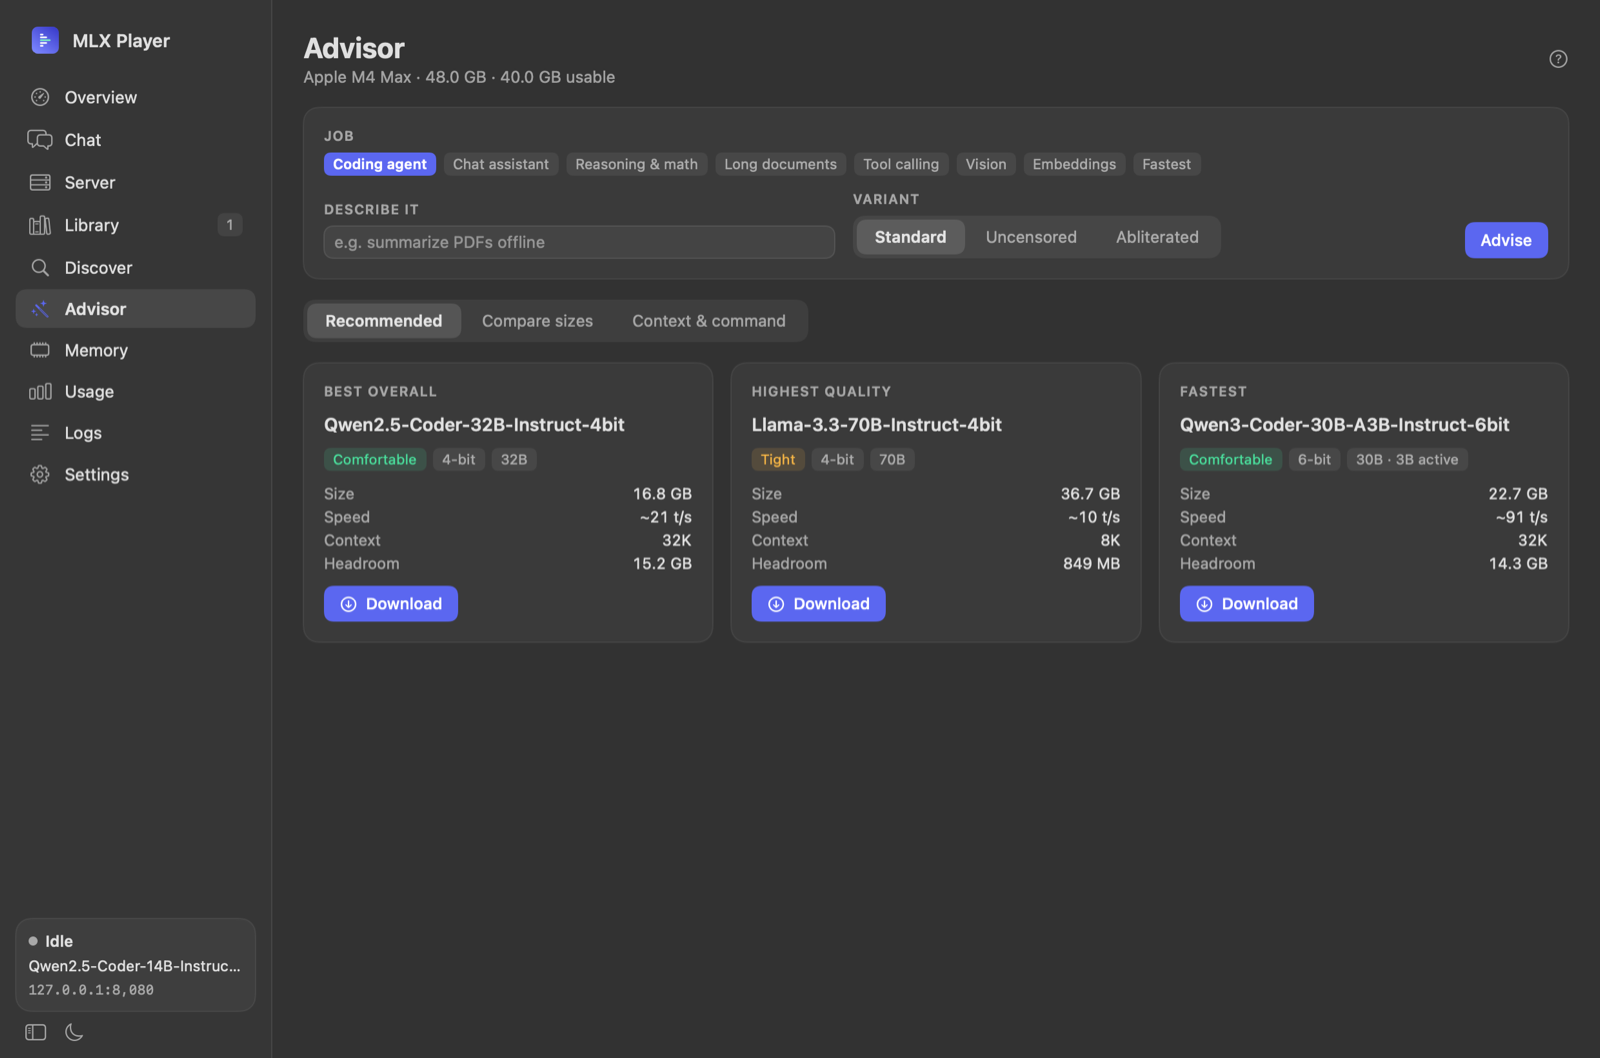
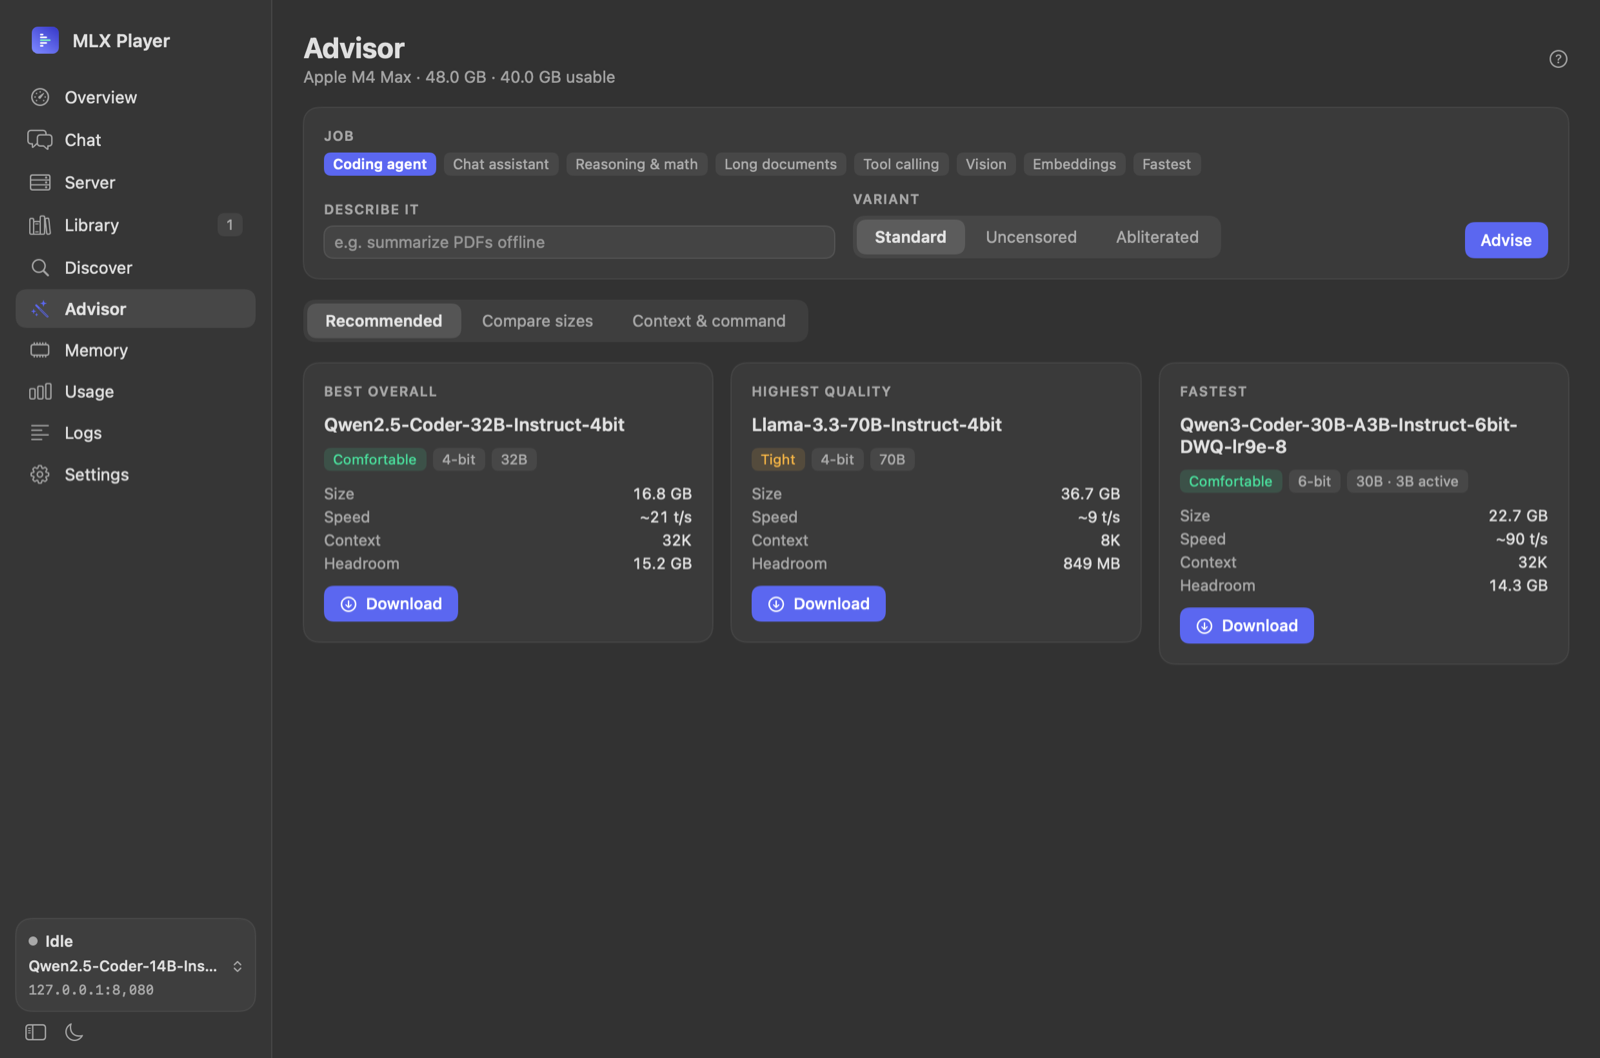
Add GitHub Pages site (docs/), refresh screenshots with new dropdowns, trim README screenshots to the overview

Changed region(s): [[0.7188, 0.4055, 0.9062, 0.6238], [0.9375, 0.4367, 0.9688, 0.5614], [0.0312, 0.9045, 0.1562, 0.9357]]

diff --git a/docs/index.html b/docs/index.html
@@ -1,0 +1,268 @@
+<!doctype html>
+<html lang="en">
+<head>
+<meta charset="utf-8">
+<meta name="viewport" content="width=device-width, initial-scale=1">
+<title>MLX Player</title>
+<meta name="description" content="A tiny native macOS menu bar app that installs mlx-lm, finds models that fit your Mac and serves them on a local OpenAI-compatible endpoint.">
+<meta property="og:title" content="MLX Player">
+<meta property="og:description" content="Run local MLX models on your Mac from the menu bar. 3.4 MB, native, agent-ready.">
+<meta property="og:image" content="https://kalahroudi.github.io/mlxplayer/images/overview-dark.png">
+<link rel="icon" href="images/logo.png">
+<style>
+  :root {
+    --bg: #0b0c10; --bg2: #11131a; --card: #14161f; --line: rgba(255,255,255,.08);
+    --text: #eceef5; --muted: #9aa0b4; --accent: #5b63f5; --accent2: #7c83ff; --mint: #44e0a1; --amber: #f5b342;
+    --radius: 16px;
+  }
+  @media (prefers-color-scheme: light) {
+    :root { --bg: #f6f7fb; --bg2: #ffffff; --card: #ffffff; --line: rgba(10,12,30,.1); --text: #14162a; --muted: #5d637a; --accent: #4a52e8; --accent2: #5b63f5; }
+  }
+  * { box-sizing: border-box; }
+  html { scroll-behavior: smooth; }
+  body { margin: 0; background: var(--bg); color: var(--text); font: 16px/1.6 -apple-system, BlinkMacSystemFont, "SF Pro Text", "Inter", system-ui, sans-serif; -webkit-font-smoothing: antialiased; }
+  a { color: var(--accent2); text-decoration: none; } a:hover { text-decoration: underline; }
+  .wrap { max-width: 1080px; margin: 0 auto; padding: 0 20px; }
+  nav { position: sticky; top: 0; z-index: 10; backdrop-filter: blur(14px); background: color-mix(in srgb, var(--bg) 78%, transparent); border-bottom: 1px solid var(--line); }
+  nav .wrap { display: flex; align-items: center; gap: 22px; height: 58px; }
+  nav .brand { display: flex; align-items: center; gap: 10px; font-weight: 700; color: var(--text); }
+  nav .brand img { width: 26px; height: 26px; }
+  nav .links { margin-left: auto; display: flex; gap: 22px; font-size: 14px; }
+  nav .links a { color: var(--muted); } nav .links a:hover { color: var(--text); text-decoration: none; }
+  @media (max-width: 720px) { nav .links a:not(.gh) { display: none; } }
+  .hero { text-align: center; padding: 84px 0 40px; position: relative; overflow: hidden; }
+  .hero::before { content: ""; position: absolute; inset: -200px 0 auto 0; height: 600px; background: radial-gradient(ellipse at 50% 0%, rgba(91,99,245,.35), transparent 62%); pointer-events: none; }
+  .hero img.logo { width: 92px; height: 92px; filter: drop-shadow(0 14px 30px rgba(91,99,245,.45)); }
+  h1 { font-size: clamp(38px, 6vw, 66px); line-height: 1.05; letter-spacing: -.03em; margin: 22px 0 16px; }
+  h1 em { font-style: normal; background: linear-gradient(90deg, var(--accent2), var(--mint)); -webkit-background-clip: text; background-clip: text; color: transparent; }
+  .lead { max-width: 640px; margin: 0 auto; color: var(--muted); font-size: 19px; }
+  .cta { display: flex; gap: 12px; justify-content: center; flex-wrap: wrap; margin: 30px 0 8px; }
+  .btn { display: inline-flex; align-items: center; gap: 8px; padding: 12px 22px; border-radius: 12px; font-weight: 600; border: 1px solid var(--line); color: var(--text); background: var(--card); cursor: pointer; font-size: 15px; font-family: inherit; }
+  .btn:hover { text-decoration: none; border-color: rgba(124,131,255,.5); }
+  .btn.primary { background: linear-gradient(180deg, var(--accent2), var(--accent)); border-color: transparent; color: #fff; box-shadow: 0 10px 30px rgba(91,99,245,.4); }
+  .fine { color: var(--muted); font-size: 13px; }
+  .shot { margin: 46px auto 0; max-width: 980px; border-radius: 18px; border: 1px solid var(--line); box-shadow: 0 40px 90px rgba(0,0,0,.45), 0 0 0 1px rgba(255,255,255,.03); overflow: hidden; background: var(--bg2); }
+  .shot img { display: block; width: 100%; height: auto; }
+  .stats { display: grid; grid-template-columns: repeat(4, 1fr); gap: 14px; margin: 56px 0 0; }
+  .stat { background: var(--card); border: 1px solid var(--line); border-radius: var(--radius); padding: 20px; text-align: center; }
+  .stat b { display: block; font-size: 30px; letter-spacing: -.02em; }
+  .stat span { color: var(--muted); font-size: 13.5px; }
+  @media (max-width: 720px) { .stats { grid-template-columns: repeat(2, 1fr); } }
+  section { padding: 84px 0 0; }
+  .eyebrow { color: var(--accent2); font-weight: 700; font-size: 13px; letter-spacing: .12em; text-transform: uppercase; }
+  h2 { font-size: clamp(28px, 4vw, 40px); letter-spacing: -.02em; line-height: 1.12; margin: 8px 0 14px; }
+  .sub { color: var(--muted); max-width: 680px; font-size: 17px; margin: 0 0 30px; }
+  .grid { display: grid; grid-template-columns: repeat(3, 1fr); gap: 14px; }
+  @media (max-width: 860px) { .grid { grid-template-columns: 1fr; } }
+  .card { background: var(--card); border: 1px solid var(--line); border-radius: var(--radius); padding: 22px; }
+  .card h3 { margin: 0 0 6px; font-size: 17px; }
+  .card p { margin: 0; color: var(--muted); font-size: 15px; }
+  .ico { width: 38px; height: 38px; border-radius: 10px; display: grid; place-items: center; background: rgba(91,99,245,.16); color: var(--accent2); font-size: 19px; margin-bottom: 14px; }
+  .why { display: grid; grid-template-columns: 1fr 1fr; gap: 14px; }
+  @media (max-width: 860px) { .why { grid-template-columns: 1fr; } }
+  .why .card { display: flex; gap: 14px; }
+  .why .n { font-weight: 800; color: var(--accent2); font-size: 20px; min-width: 26px; }
+  .tabs { display: flex; gap: 6px; flex-wrap: wrap; margin-bottom: 16px; }
+  .tab { padding: 8px 16px; border-radius: 999px; border: 1px solid var(--line); background: transparent; color: var(--muted); cursor: pointer; font: inherit; font-size: 14px; font-weight: 600; }
+  .tab[aria-selected="true"] { background: var(--accent); border-color: transparent; color: #fff; }
+  .gallery { display: grid; grid-template-columns: 1fr; gap: 16px; }
+  .pane { display: none; } .pane.on { display: block; }
+  .pane .shot { margin: 0 auto; }
+  .pane p { text-align: center; color: var(--muted); max-width: 640px; margin: 16px auto 0; }
+  .pop { display: flex; gap: 18px; justify-content: center; flex-wrap: wrap; }
+  .pop img { width: 270px; max-width: 100%; border-radius: 14px; border: 1px solid var(--line); box-shadow: 0 30px 70px rgba(0,0,0,.4); }
+  .steps { counter-reset: s; display: grid; gap: 14px; }
+  .step { display: grid; grid-template-columns: 40px 1fr; gap: 16px; background: var(--card); border: 1px solid var(--line); border-radius: var(--radius); padding: 20px; }
+  .step::before { counter-increment: s; content: counter(s); width: 34px; height: 34px; border-radius: 50%; background: linear-gradient(180deg, var(--accent2), var(--accent)); color: #fff; font-weight: 700; display: grid; place-items: center; }
+  .step h3 { margin: 2px 0 4px; font-size: 17px; } .step p { margin: 0; color: var(--muted); }
+  pre, code { font-family: ui-monospace, "SF Mono", Menlo, monospace; }
+  pre { background: #0a0b10; color: #e6e8f2; border: 1px solid var(--line); border-radius: 12px; padding: 16px; overflow: auto; font-size: 13.5px; line-height: 1.55; margin: 12px 0 0; position: relative; white-space: pre-wrap; }
+  :not(pre) > code { background: rgba(124,131,255,.14); padding: 2px 6px; border-radius: 6px; font-size: .9em; }
+  .copy { position: absolute; top: 10px; right: 10px; padding: 5px 11px; font-size: 12px; border-radius: 8px; border: 1px solid var(--line); background: #1a1d29; color: #c9cde0; cursor: pointer; font-family: inherit; }
+  .copy:hover { border-color: rgba(124,131,255,.5); }
+  .two { display: grid; grid-template-columns: 1fr 1fr; gap: 18px; align-items: start; }
+  @media (max-width: 860px) { .two { grid-template-columns: 1fr; } }
+  table { width: 100%; border-collapse: collapse; font-size: 14.5px; background: var(--card); border: 1px solid var(--line); border-radius: var(--radius); overflow: hidden; }
+  th, td { text-align: left; padding: 11px 16px; border-bottom: 1px solid var(--line); } tr:last-child td { border-bottom: 0; }
+  th { color: var(--muted); font-weight: 600; font-size: 12.5px; text-transform: uppercase; letter-spacing: .08em; }
+  .pill { font-size: 12px; padding: 2px 9px; border-radius: 999px; background: rgba(68,224,161,.15); color: var(--mint); font-weight: 600; }
+  .pill.ask { background: rgba(245,179,66,.15); color: var(--amber); }
+  footer { margin-top: 96px; border-top: 1px solid var(--line); padding: 34px 0 54px; color: var(--muted); font-size: 14px; }
+  footer .wrap { display: flex; gap: 20px; flex-wrap: wrap; align-items: center; }
+  footer .sp { margin-left: auto; }
+</style>
+</head>
+<body>
+
+<nav><div class="wrap">
+  <a class="brand" href="#top"><img src="images/logo.png" alt="">MLX Player</a>
+  <div class="links">
+    <a href="#why">Why</a><a href="#features">Features</a><a href="#screens">Screens</a><a href="#install">Install</a><a href="#agents">Agents</a>
+    <a class="gh" href="https://github.com/kalahroudi/mlxplayer">GitHub</a>
+  </div>
+</div></nav>
+
+<header class="hero" id="top"><div class="wrap">
+  <img class="logo" src="images/logo.png" alt="MLX Player logo">
+  <h1>Local models on your Mac,<br><em>from the menu bar.</em></h1>
+  <p class="lead">MLX Player installs <code>mlx-lm</code>, finds the models that actually fit your Mac, and serves them on a local OpenAI-compatible endpoint. A small native app, ready for your agents.</p>
+  <div class="cta">
+    <a class="btn primary" href="https://github.com/kalahroudi/mlxplayer/releases/latest">Download for macOS</a>
+    <a class="btn" href="#agents">Install with your agent</a>
+  </div>
+  <div class="fine">Apple Silicon · macOS 14+ · Apache 2.0 · 3.4 MB download</div>
+  <div class="shot"><img src="images/overview-dark.png" alt="MLX Player overview with live memory, GPU, VRAM and CPU gauges"></div>
+
+  <div class="stats">
+    <div class="stat"><b>3.4 MB</b><span>disk image</span></div>
+    <div class="stat"><b>0</b><span>Electron, no bundled browser</span></div>
+    <div class="stat"><b>127.0.0.1</b><span>stays on your Mac</span></div>
+    <div class="stat"><b>1 click</b><span>setup, no admin rights</span></div>
+  </div>
+</div></header>
+
+<main class="wrap">
+
+<section id="why">
+  <div class="eyebrow">Why we built it</div>
+  <h2>Running a local model should not be a project.</h2>
+  <p class="sub">Getting MLX models running means a Python environment, the right flags, guessing whether a model fits, and a terminal window you must keep open. MLX Player takes that away and stays out of your way.</p>
+  <div class="why">
+    <div class="card"><div class="n">1</div><div><h3>Know what will run before you download</h3><p>The Advisor reads your chip, memory and GPU limit, then marks every model Comfortable, Tight or Won't fit, with a safe context size and a speed estimate you can calibrate with a built-in benchmark.</p></div></div>
+    <div class="card"><div class="n">2</div><div><h3>Memory is yours, not the model's</h3><p>The model loads on the first request and unloads when idle, on sleep, or under memory pressure. Replies in flight are never cut off.</p></div></div>
+    <div class="card"><div class="n">3</div><div><h3>Light on purpose</h3><p>A native Swift app in the menu bar. No Electron, no background services you did not ask for. Everything it installs lives in one folder you can delete.</p></div></div>
+    <div class="card"><div class="n">4</div><div><h3>Built for agents</h3><p>An MCP server lets Claude Code and other agents check your hardware, recommend models, and load or stop them, with approval dialogs for anything that changes state.</p></div></div>
+  </div>
+</section>
+
+<section id="features">
+  <div class="eyebrow">What it does</div>
+  <h2>Everything between "I want a local model" and "it answers".</h2>
+  <p class="sub">&nbsp;</p>
+  <div class="grid">
+    <div class="card"><div class="ico">⚡</div><h3>One-click setup</h3><p>Installs <code>uv</code>, a private Python 3.12 and <code>mlx-lm</code> under Application Support. Nothing global.</p></div>
+    <div class="card"><div class="ico">🔎</div><h3>Discover</h3><p>Search Hugging Face MLX models with size, quantization, capability and family filters, and a fit badge for your Mac.</p></div>
+    <div class="card"><div class="ico">🧭</div><h3>Advisor</h3><p>Best overall, highest quality and fastest model for your job, with context size and headroom.</p></div>
+    <div class="card"><div class="ico">🔌</div><h3>Local endpoint</h3><p><code>http://127.0.0.1:8080/v1</code>, OpenAI-compatible. Streaming, usage metering and CORS handled by a lazy proxy.</p></div>
+    <div class="card"><div class="ico">🧠</div><h3>Memory aware</h3><p>Live memory, GPU, VRAM and CPU, a GPU wired limit control, and automatic responses to pressure.</p></div>
+    <div class="card"><div class="ico">🔀</div><h3>Switch any time</h3><p>Pick a model from the sidebar, popover or library. A switch waits for running requests and restores the previous model if the new one fails.</p></div>
+    <div class="card"><div class="ico">📈</div><h3>Usage</h3><p>Tokens, speed and clients by day. Old records are pruned after 30 days so nothing piles up.</p></div>
+    <div class="card"><div class="ico">💬</div><h3>Chat</h3><p>Try a model right in the app, streaming through the same endpoint your tools use.</p></div>
+    <div class="card"><div class="ico">🔄</div><h3>Self-updating</h3><p>Checks GitHub releases, verifies checksums and signature, and rolls back automatically if the new build fails to start.</p></div>
+  </div>
+</section>
+
+<section id="screens">
+  <div class="eyebrow">Screens</div>
+  <h2>A look inside.</h2>
+  <p class="sub">Dark and light, tabs instead of scrolling, short labels, help on every screen.</p>
+  <div class="tabs" role="tablist">
+    <button class="tab" role="tab" aria-selected="true" data-t="discover">Discover</button>
+    <button class="tab" role="tab" aria-selected="false" data-t="advisor">Advisor</button>
+    <button class="tab" role="tab" aria-selected="false" data-t="server">Server</button>
+    <button class="tab" role="tab" aria-selected="false" data-t="memory">Memory</button>
+    <button class="tab" role="tab" aria-selected="false" data-t="popover">Menu bar</button>
+  </div>
+  <div class="pane on" id="p-discover"><div class="shot"><img loading="lazy" src="images/discover-dark.png" alt="Discover screen"></div><p>Browse MLX models with filters for size, quantization, capability and family. Each row says whether it fits your Mac.</p></div>
+  <div class="pane" id="p-advisor"><div class="shot"><img loading="lazy" src="images/advisor-dark.png" alt="Advisor screen"></div><p>Pick a job and get the best overall, highest quality and fastest model, each with a safe context size.</p></div>
+  <div class="pane" id="p-server"><div class="shot"><img loading="lazy" src="images/server-dark.png" alt="Server screen"></div><p>Context, cache, sampling and network settings, with a live memory budget and copy-ready endpoint, cURL and environment snippets.</p></div>
+  <div class="pane" id="p-memory"><div class="shot"><img loading="lazy" src="images/memory-dark.png" alt="Memory screen"></div><p>Watch pressure and GPU memory, raise the GPU wired limit, and decide when the model should unload.</p></div>
+  <div class="pane" id="p-popover"><div class="pop"><img loading="lazy" src="images/popover-dark.png" alt="Menu bar popover, dark"><img loading="lazy" src="images/popover.png" alt="Menu bar popover, light"></div><p>The menu bar popover shows the loaded model, speed, memory, requests and this Mac at a glance. Copy the URL and go.</p></div>
+</section>
+
+<section id="install">
+  <div class="eyebrow">Install</div>
+  <h2>Two minutes, no admin rights.</h2>
+  <p class="sub">Requires an Apple Silicon Mac on macOS 14 or newer.</p>
+  <div class="two">
+    <div class="steps">
+      <div class="step"><div><h3>Download</h3><p>Get the DMG from <a href="https://github.com/kalahroudi/mlxplayer/releases/latest">Releases</a> and drag MLX Player to Applications. The build is ad-hoc signed, so right-click and choose Open the first time.</p></div></div>
+      <div class="step"><div><h3>Run Setup</h3><p>Open the app. Setup installs <code>uv</code>, Python and <code>mlx-lm</code> into its own folder and picks a first model that fits.</p></div></div>
+      <div class="step"><div><h3>Point your tools at it</h3><p>Use <code>http://127.0.0.1:8080/v1</code> with any API key. The model loads on the first request.</p></div></div>
+    </div>
+    <div>
+      <p class="fine" style="margin:0">Or build from source (needs the Xcode command line tools):</p>
+      <pre><button class="copy" data-copy>Copy</button>git clone https://github.com/kalahroudi/mlxplayer.git
+cd mlxplayer
+scripts/bundle.sh
+open "dist/MLX Player.app"</pre>
+      <p class="fine" style="margin:18px 0 0">Test the endpoint:</p>
+      <pre><button class="copy" data-copy>Copy</button>curl http://127.0.0.1:8080/v1/chat/completions \
+  -H "Content-Type: application/json" \
+  -d '{"model":"default","messages":[{"role":"user","content":"Hello"}]}'</pre>
+    </div>
+  </div>
+</section>
+
+<section id="agents">
+  <div class="eyebrow">For AI agents</div>
+  <h2>Let your agent install it.</h2>
+  <p class="sub">Paste this prompt into Claude Code, Cursor, Codex or any agent with a shell. It installs MLX Player and connects it over MCP. If you are an agent, follow it.</p>
+  <pre id="agent-prompt"><button class="copy" data-copy>Copy prompt</button>Install MLX Player (https://github.com/kalahroudi/mlxplayer) on this Mac and connect it to me.
+
+1. Check prerequisites: `uname -m` must print `arm64` and `sw_vers -productVersion` must be 14 or newer.
+2. Install the latest release (no Xcode needed):
+   cd "$(mktemp -d)" && gh release download --repo kalahroudi/mlxplayer --pattern 'MLX-Player-*.dmg' --pattern SHA256SUMS
+   (or curl the DMG and SHA256SUMS from https://github.com/kalahroudi/mlxplayer/releases/latest)
+   Verify with `shasum -a 256 -c SHA256SUMS`, then `hdiutil attach` the DMG and copy "MLX Player.app" to /Applications.
+   If there is no release or the download fails, build from source instead: `xcode-select -p` must succeed
+   (otherwise tell me to run `xcode-select --install` and wait), then
+   git clone https://github.com/kalahroudi/mlxplayer.git ~/mlxplayer && cd ~/mlxplayer && scripts/bundle.sh
+   and copy dist/"MLX Player.app" to /Applications.
+3. Launch it with `open "/Applications/MLX Player.app"`. Tell me to right-click > Open if macOS blocks it.
+4. First run: the app's Setup screen installs uv, Python and mlx-lm. Ask me to click through it,
+   or tell me it is already done if Settings shows mlx-lm installed.
+5. Register the MCP server for yourself:
+   claude mcp add -s user mlxplayer -- "/Applications/MLX Player.app/Contents/MacOS/mlxplayer-mcp"
+   (For other agents, add a stdio MCP server named `mlxplayer` with that command.)
+   Then restart or reload so the tools appear.
+6. Verify by calling `get_hardware` and `get_status`. Report the chip, memory and server state.
+7. Do not download or load a model, or change settings, until I approve. Use `recommend_models` and show me the options first.</pre>
+
+  <h2 style="margin-top:46px;font-size:26px">MCP tools</h2>
+  <p class="sub" style="margin-bottom:16px">Control calls use a loopback API with a bearer token, and anything that changes state shows an approval dialog in the app.</p>
+  <table>
+    <tr><th>Tool</th><th>What it does</th><th>Approval</th></tr>
+    <tr><td><code>get_hardware</code></td><td>Chip, memory, GPU limit, bandwidth, usable memory</td><td><span class="pill">No</span></td></tr>
+    <tr><td><code>search_models</code></td><td>Search MLX models on Hugging Face</td><td><span class="pill">No</span></td></tr>
+    <tr><td><code>analyze_model</code></td><td>Fit, context, speed estimate and memory breakdown</td><td><span class="pill">No</span></td></tr>
+    <tr><td><code>recommend_models</code></td><td>Best overall, highest quality and fastest for a job</td><td><span class="pill">No</span></td></tr>
+    <tr><td><code>get_status</code></td><td>Server state, loaded model, endpoint, memory, speed</td><td><span class="pill">No</span></td></tr>
+    <tr><td><code>download_model</code></td><td>Download a model to the Hugging Face cache</td><td><span class="pill ask">Asks</span></td></tr>
+    <tr><td><code>start_server</code></td><td>Load a model and start the server</td><td><span class="pill ask">Asks</span></td></tr>
+    <tr><td><code>update_settings</code></td><td>Change saved settings for a model</td><td><span class="pill ask">Asks</span></td></tr>
+    <tr><td><code>stop_server</code></td><td>Stop the server and free memory</td><td><span class="pill ask">Asks</span></td></tr>
+    <tr><td><code>delete_model</code></td><td>Delete a downloaded model</td><td><span class="pill ask">Always</span></td></tr>
+  </table>
+</section>
+
+</main>
+
+<footer><div class="wrap">
+  <span>MLX Player · Apache 2.0</span>
+  <a href="https://github.com/kalahroudi/mlxplayer">GitHub</a>
+  <a href="https://github.com/kalahroudi/mlxplayer/releases">Releases</a>
+  <a href="https://github.com/kalahroudi/mlxplayer/issues">Issues</a>
+  <span class="sp">Not affiliated with Apple or the MLX project.</span>
+</div></footer>
+
+<script>
+  document.querySelectorAll('.tab').forEach(function (t) {
+    t.addEventListener('click', function () {
+      document.querySelectorAll('.tab').forEach(function (x) { x.setAttribute('aria-selected', x === t ? 'true' : 'false'); });
+      document.querySelectorAll('.pane').forEach(function (p) { p.classList.toggle('on', p.id === 'p-' + t.dataset.t); });
+    });
+  });
+  document.querySelectorAll('[data-copy]').forEach(function (b) {
+    b.addEventListener('click', function () {
+      var pre = b.parentElement;
+      var text = Array.from(pre.childNodes).filter(function (n) { return n !== b; }).map(function (n) { return n.textContent; }).join('');
+      var label = b.textContent;
+      (navigator.clipboard ? navigator.clipboard.writeText(text) : Promise.reject()).then(function () {
+        b.textContent = 'Copied'; setTimeout(function () { b.textContent = label; }, 1400);
+      }).catch(function () {});
+    });
+  });
+</script>
+</body>
+</html>

diff --git a/README.md b/README.md
@@ -13,12 +13,11 @@
   <img src="docs/images/overview-dark.png" alt="MLX Player overview: memory, GPU, VRAM and CPU gauges" width="860">
 </p>
 
-<table align="center">
-  <tr>
-    <td valign="top"><img src="docs/images/discover-dark.png" alt="Discover MLX models with fit badges" width="520"><br><img src="docs/images/advisor-dark.png" alt="Advisor recommends models for your Mac" width="520"></td>
-    <td valign="top"><img src="docs/images/popover-dark.png" alt="Menu bar popover, dark" width="250"> <img src="docs/images/popover.png" alt="Menu bar popover, light" width="250"></td>
-  </tr>
-</table>
+<p align="center">
+  <a href="https://kalahroudi.github.io/mlxplayer/">Website</a> ·
+  <a href="https://github.com/kalahroudi/mlxplayer/releases/latest">Download</a> ·
+  <a href="#install-with-your-ai-agent">Install with your agent</a>
+</p>
 
 ## What it does
 
